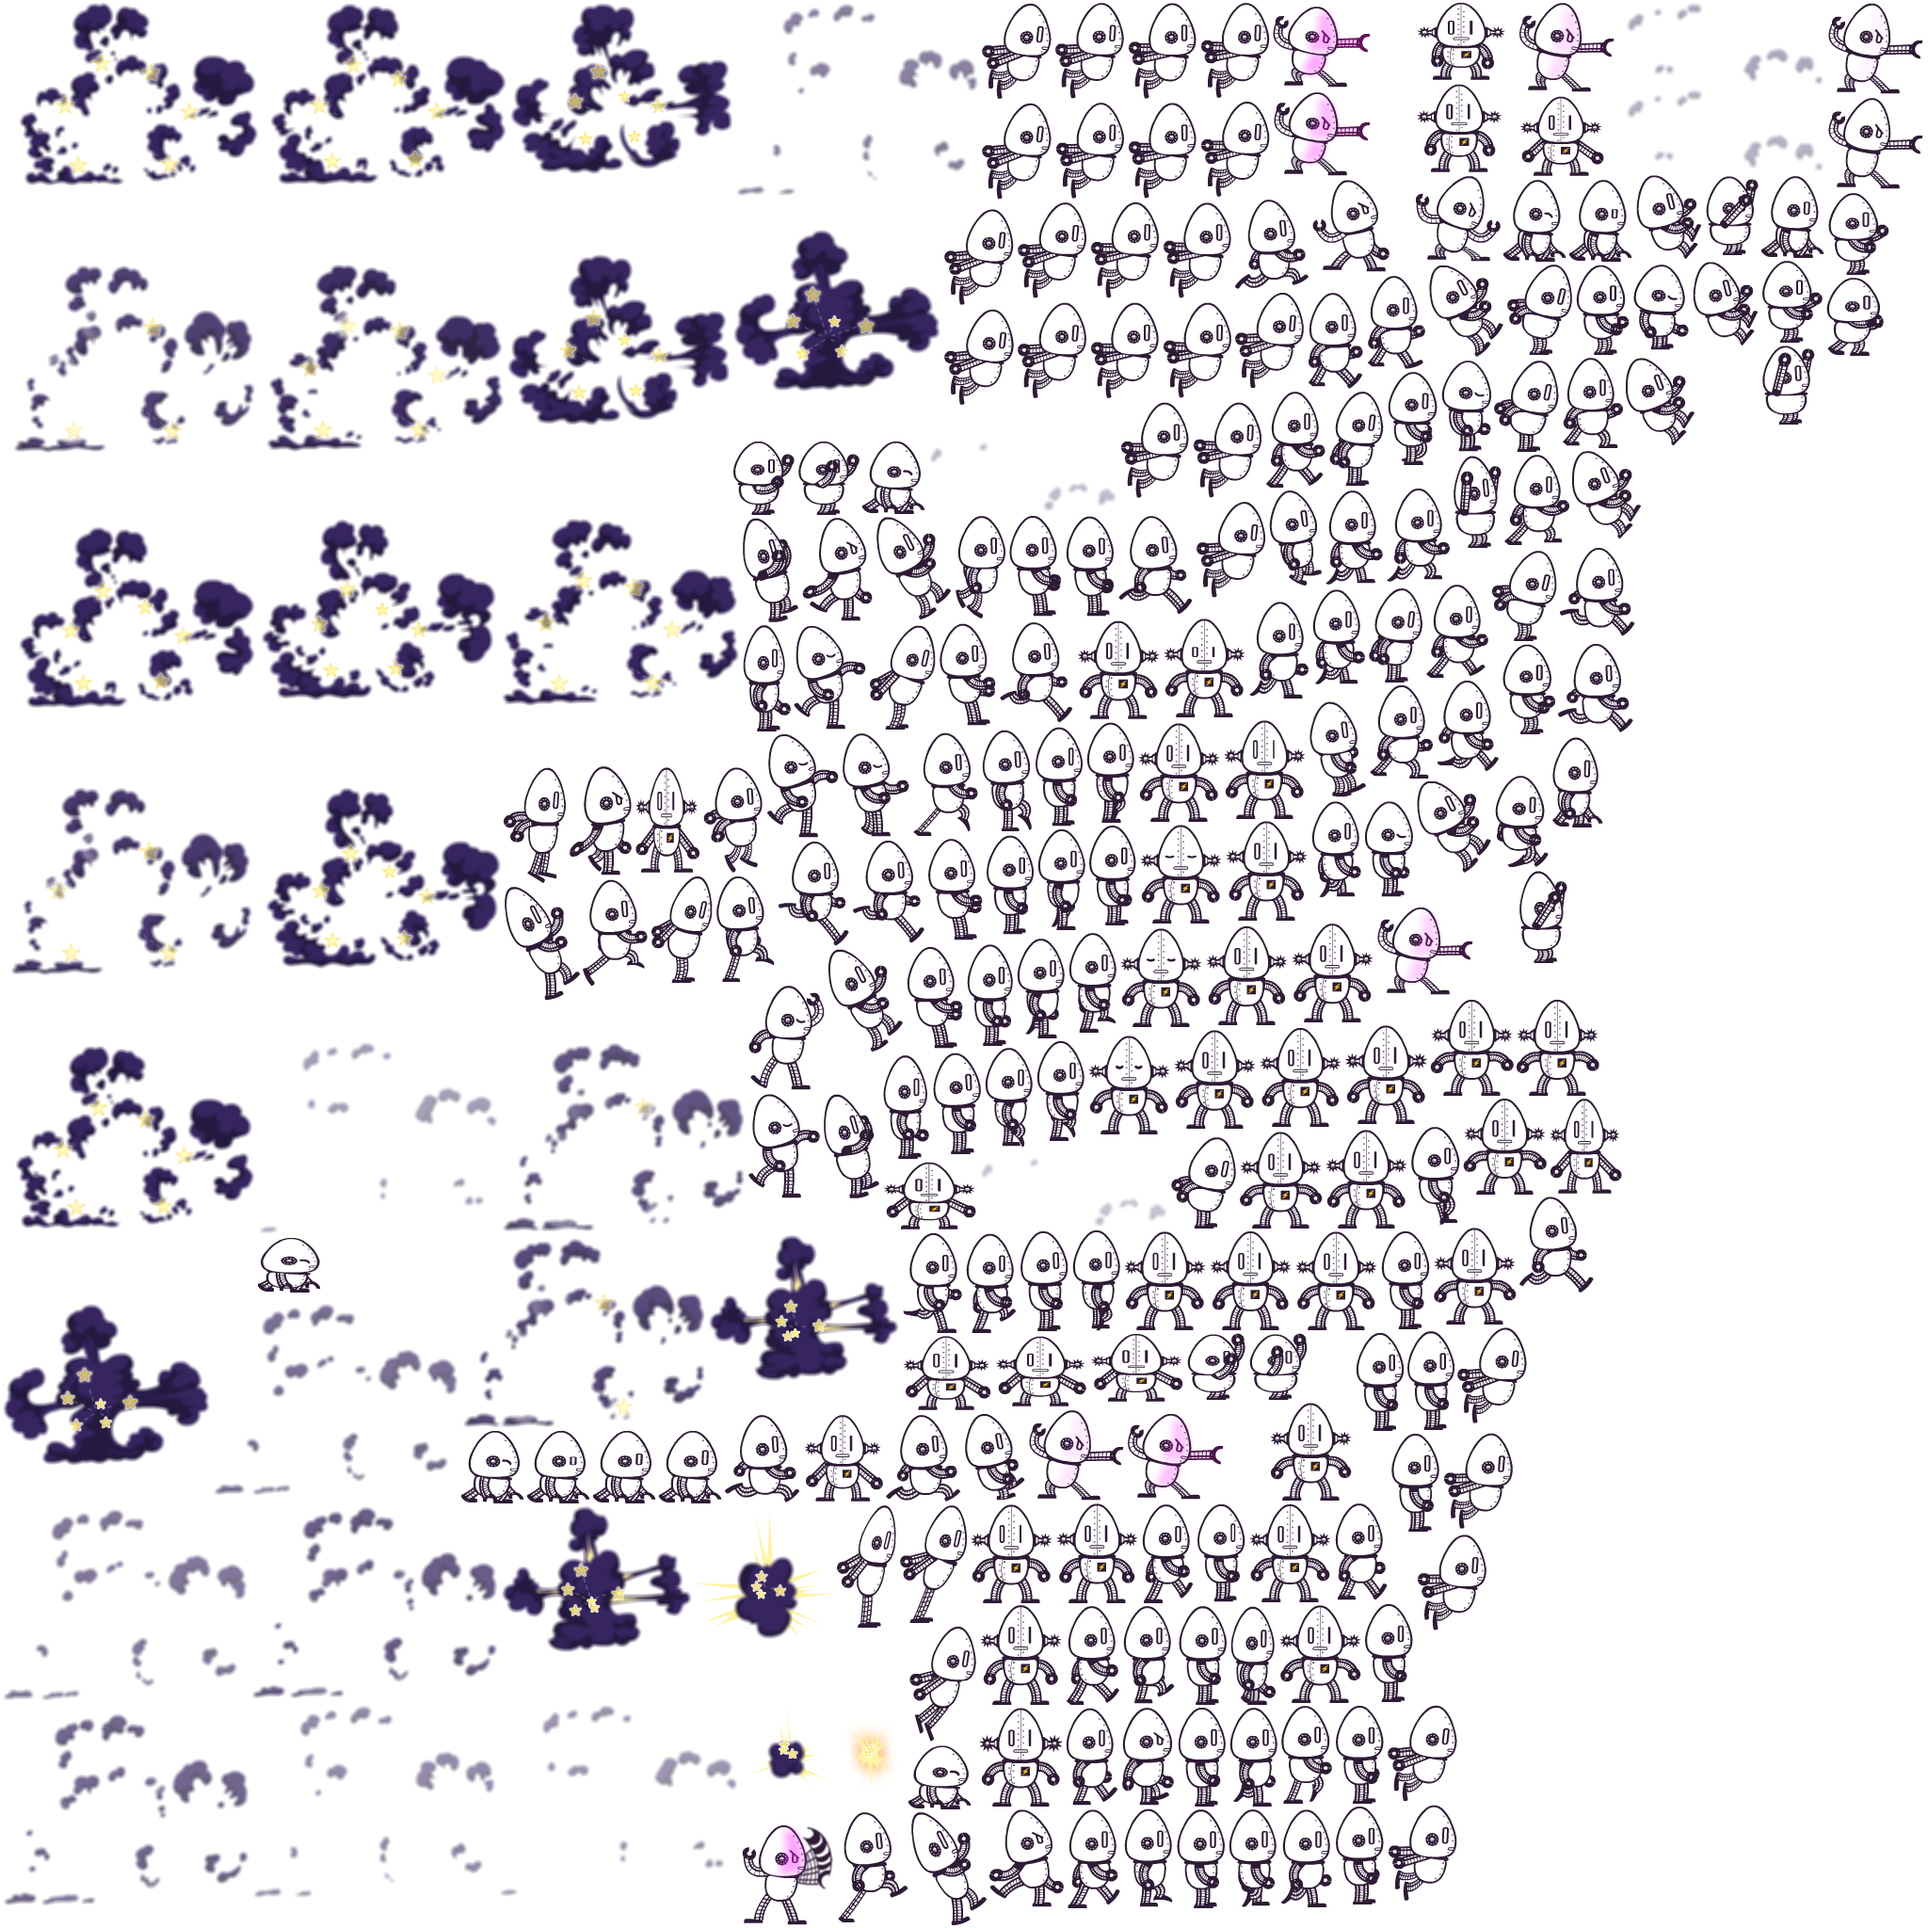
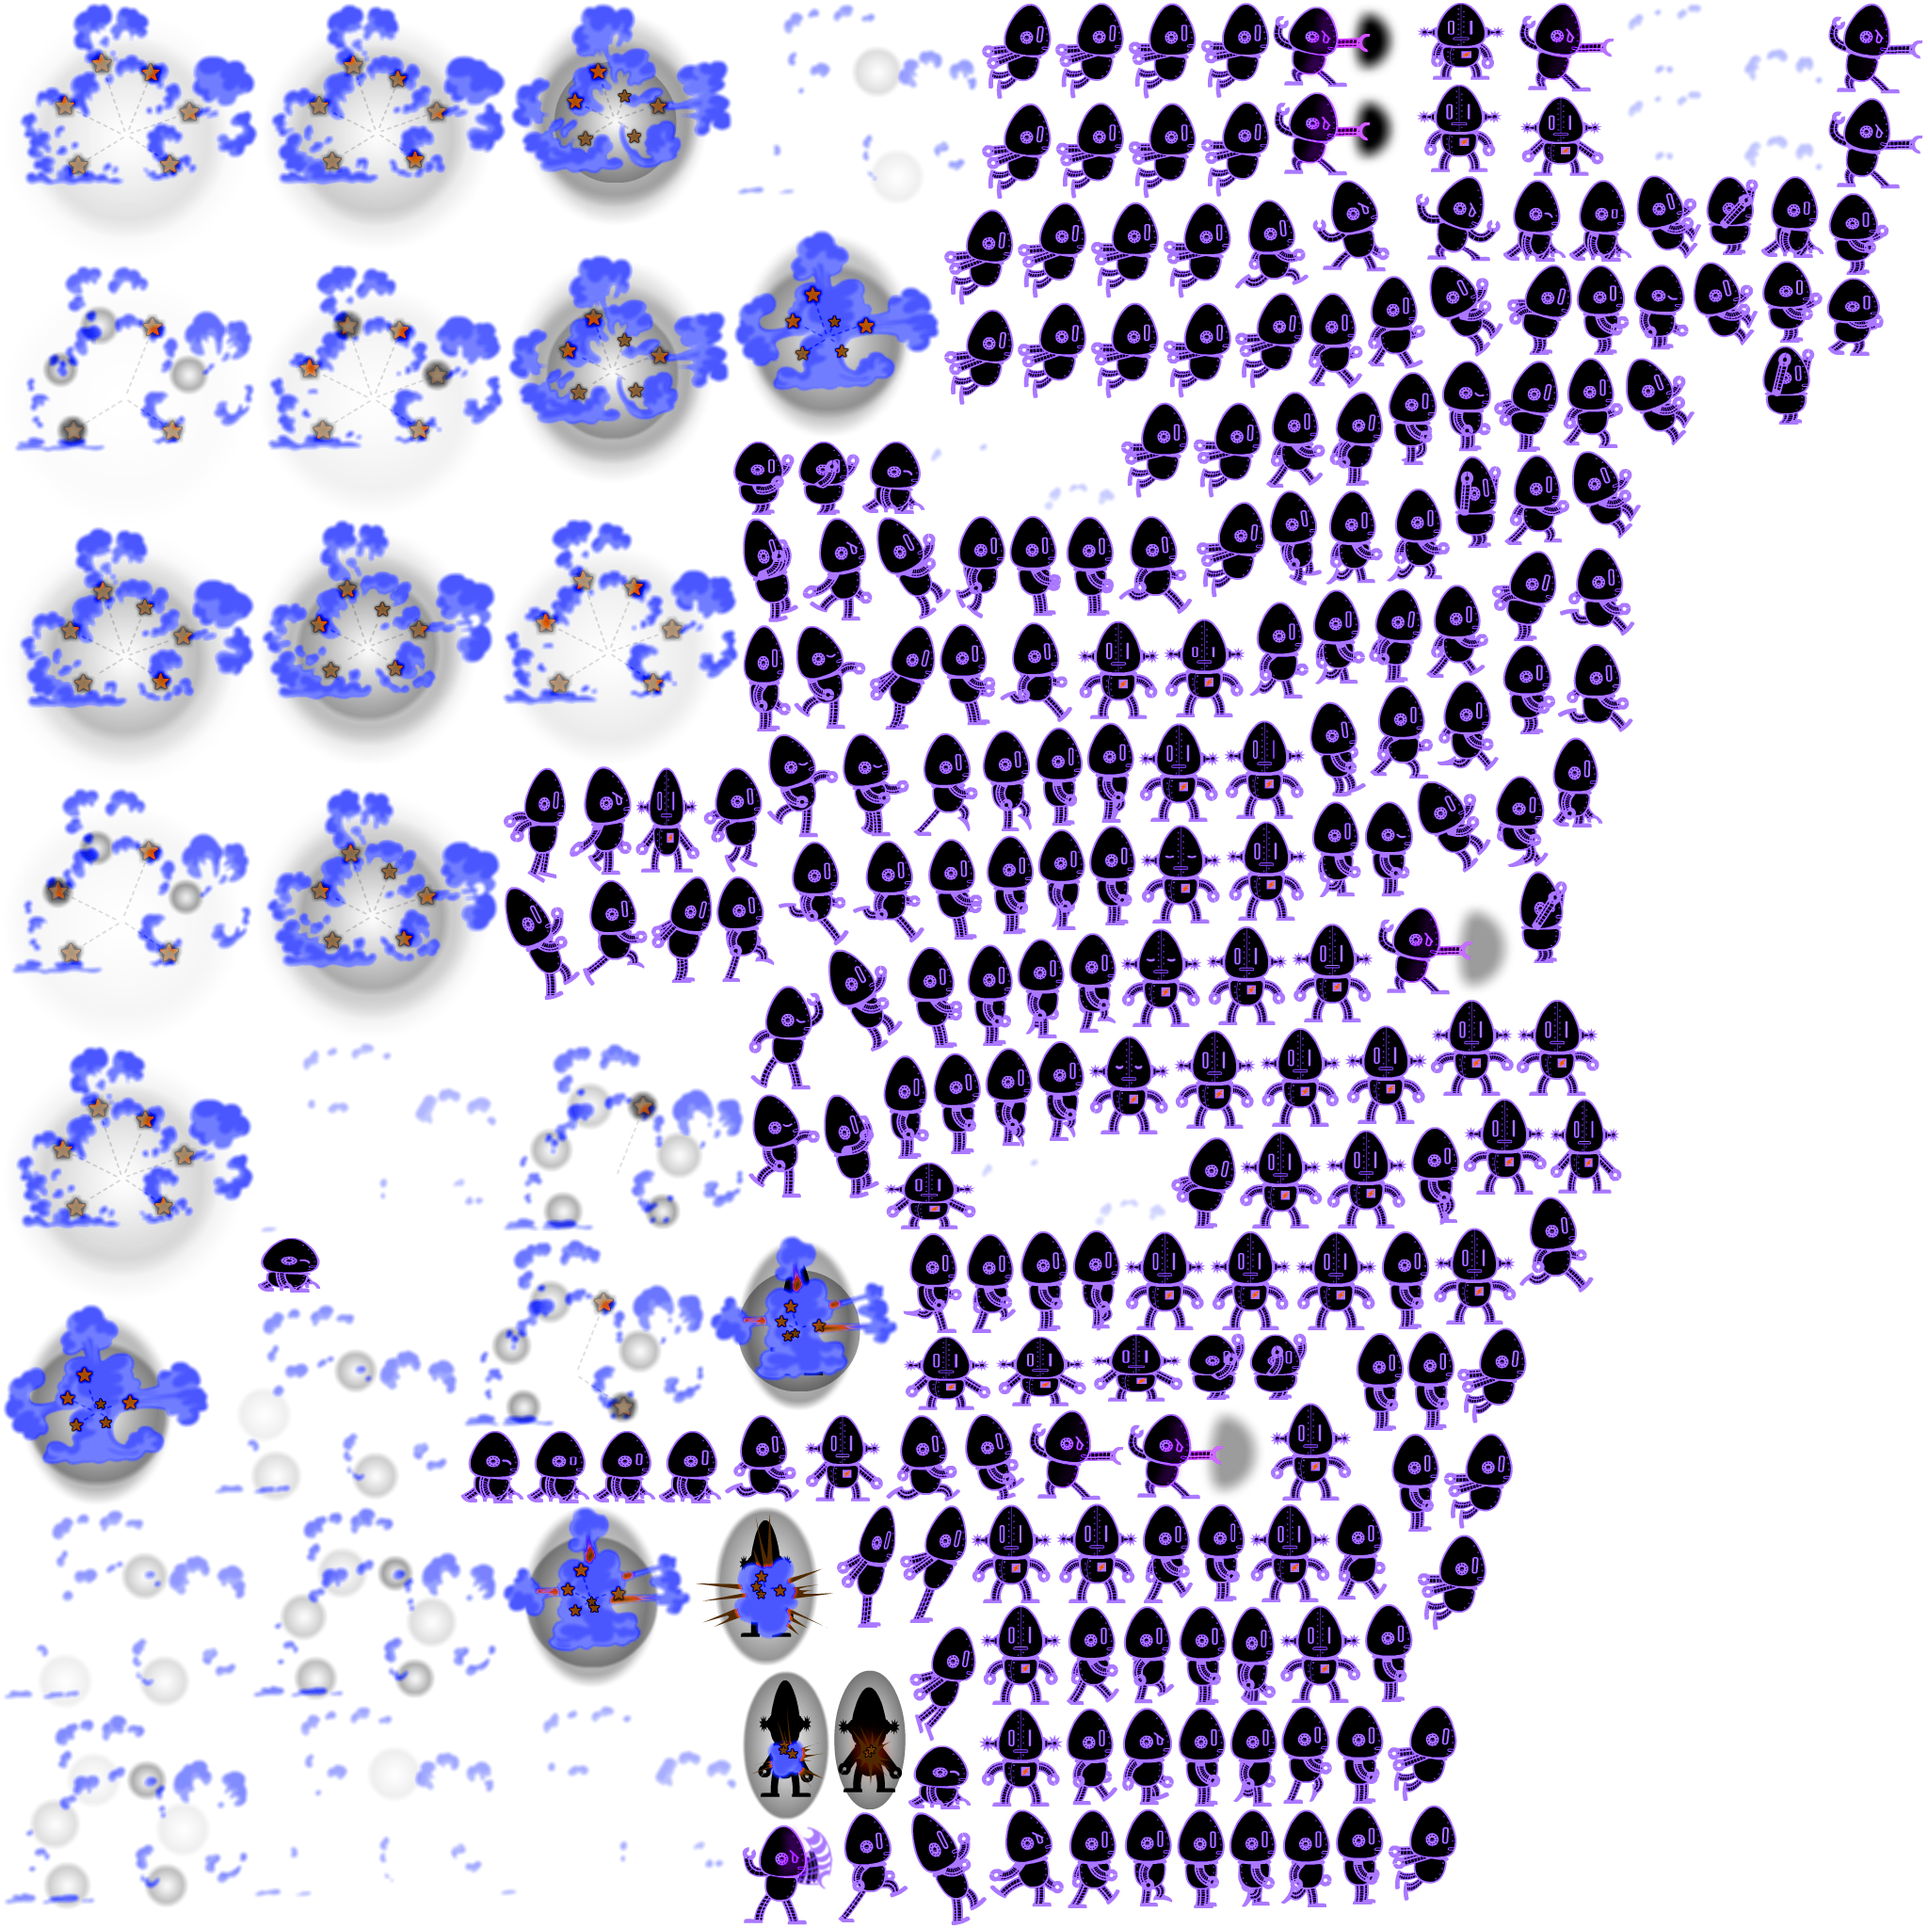
Changes to platformer GP and Appearance

diff --git a/projects/platformer/js/factory/player.js b/projects/platformer/js/factory/player.js
@@ -130,14 +130,14 @@
             state.enter = function() {
                 console.log(`entering ${ name }`);
                 asset.body.bounce.y = 0;
-                game.add.tween(asset.body).to( { y: asset.body.y -100 }, 1000, Phaser.Easing.Linear.None, true);
+                game.add.tween(asset.body).to( { y: asset.body.y -150 }, 500, Phaser.Easing.Linear.None, true);
 
-                asset.body.velocity.x = 200 * _direction;
+                asset.body.velocity.x = 300 * _direction;
                 asset.x += xOffset * _direction;
                 asset.y += yOffset;
             };
             state.exit = function() {
-                asset.body.bounce.y = 0.4;
+                asset.body.bounce.y = 0;
                 asset.x -= xOffset * _direction;
                 asset.y -= yOffset;
             };
@@ -169,7 +169,7 @@
          */
         function run() {
             asset.scale.x = _direction;
-            asset.body.velocity.x = 200 * _direction;
+            asset.body.velocity.x = 500 * _direction;
             asset.animations.play('run');
             setState(_run);
         }

diff --git a/projects/platformer/js/init/collectable.js b/projects/platformer/js/init/collectable.js
@@ -7,7 +7,7 @@
     let type = {
         db: {assetKey: 'db', points: 10},
         max: {assetKey: 'max', points: 20},
-        steve: {assetKey: 'steve', points: 30},
+        steve: {assetKey: 'steve', points: 100},
         grace: {assetKey: 'grace', points: 40},
         kennedi: {assetKey: 'kennedi', points: 50}
     };
@@ -37,8 +37,8 @@
         // ALL YOUR CODE GOES BELOW HERE ///////////////////////////////////////
         
         // example: 
-        createCollectable(type.steve, 200, 170, 6, 0.7);
-        createCollectable(type.steve, 300, 500);
+        createCollectable(type.steve, 200, 170, 75, 0.9);
+        createCollectable(type.steve, 300, 500, 75);
         createCollectable(type.steve, 600, 150);
         // ALL YOUR CODE GOES ABOVE HERE ///////////////////////////////////////
         ////////////////////////////////////////////////////////////////////////

diff --git a/portfolio.html b/portfolio.html
@@ -200,7 +200,7 @@
             <li><a href="projects/wordle/" target="_blank">A Wordle Clone developed by Mr. O'Connell. Guess the right word in 6 tries!</a></li>
             <li><a href="jsbins.html" target="_blank">Click this link to access all of the JS Bins used in our Fundamentals class.</a></li>
             <li><a href="projects/doodlejump/index.html" target="_blank">Doodle Jump in HTML5! Mr. O'Connell's favorite mobile game.</a></li>
-            <li><a href="projects/flappybird/index.html" target="_blank">Flappy Bird! Good luck. You'll need it...</a></li>
+            <li><a href="projects/flappybird/index.html" target="_blank">Flappy Bird! Good luck. You'll need it....</a></li>
             </ul>
         </div>
         </main>

diff --git a/projects/platformer/js/index.js b/projects/platformer/js/index.js
@@ -21,9 +21,9 @@ $(document).ready(function () {
         
         opspark.player.init(game);
         
-        const textOpts = { fontSize: '32px', fill: '#000' };
-        game.score = game.add.text(16, 16, 'Score: 0', textOpts);
-        game.lives = game.add.text(16, 70, 'Lives: ' + lives, textOpts);
+        const textOpts = { fontSize: '30px', fill: '#000' };
+        game.score = game.add.text(10, 16, 'Score: 0', textOpts);
+        game.lives = game.add.text(10, 70, 'Lives: ' + lives, textOpts);
     }
 
 

diff --git a/projects/platformer/js/factory/cannon.js b/projects/platformer/js/factory/cannon.js
@@ -78,7 +78,7 @@
             projectile.angle = angle;
             projectile.alpha = 0;
 
-            tween = game.add.tween(projectile).to(tweenTo, 2000, null, true, delay || 0, -1);
+            tween = game.add.tween(projectile).to(tweenTo, 1500, null, true, delay || 0, -1);
             configureTween(tween, projectile, cannon);
             return cannon;
        

diff --git a/projects/platformer/index.html b/projects/platformer/index.html
@@ -15,6 +15,11 @@
         <script src="js/init/collectable.js"></script>
         <script src="js/init/cannon.js"></script>
         <script src="js/init/player.js"></script>
+        <style>
+            body {
+                background-color: black;
+            }
+        </style>
     </head>
     <body>
         <script src="js/index.js"></script>

diff --git a/projects/platformer/js/init/cannon.js b/projects/platformer/js/init/cannon.js
@@ -29,6 +29,7 @@
         // example: 
         createCannon("top", 800);
         createCannon("left", 100);
+        createCannon("left", 400, 4000);
         createCannon("top", 250, 3000);
         // ALL YOUR CODE GOES ABOVE HERE ///////////////////////////////////////
         ////////////////////////////////////////////////////////////////////////
